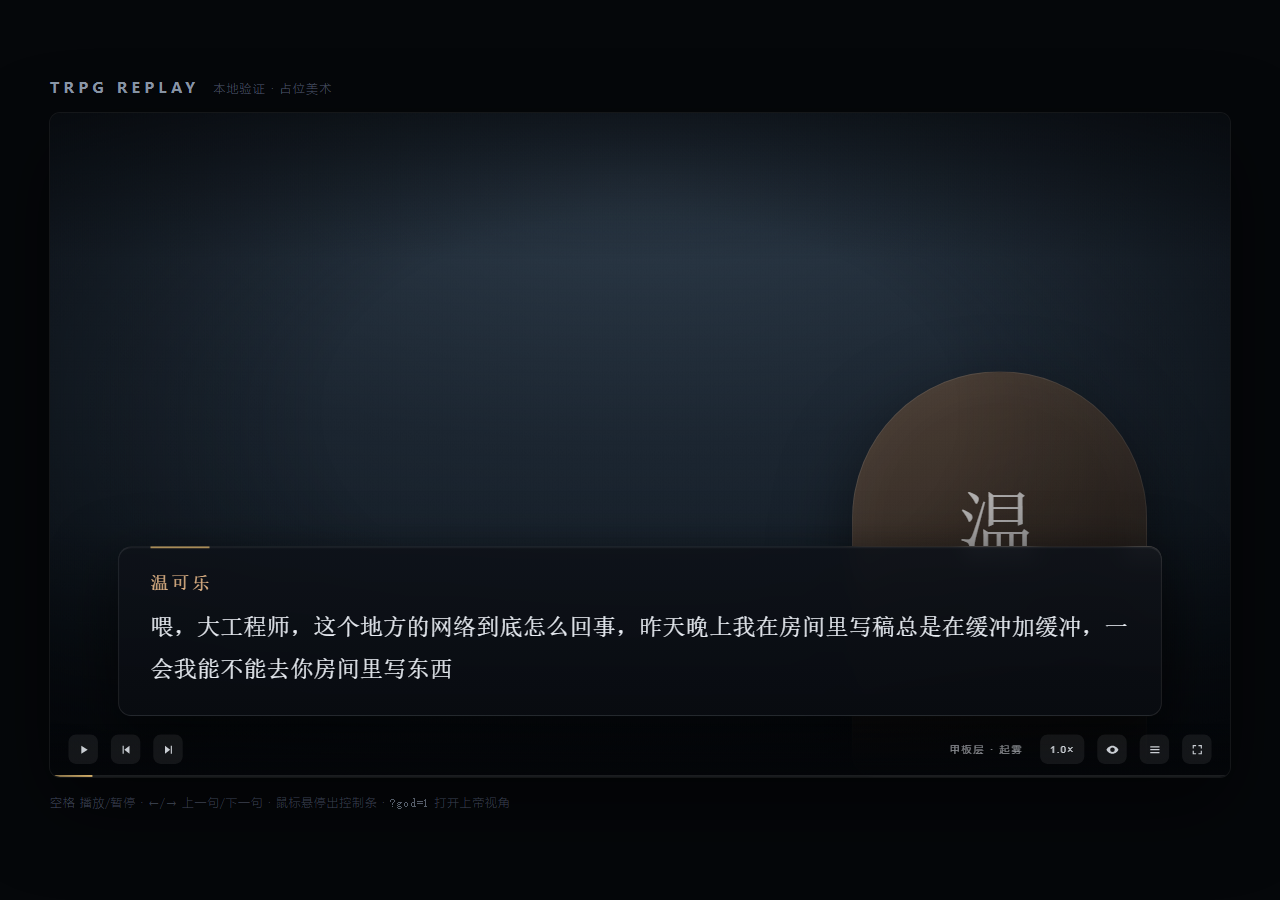
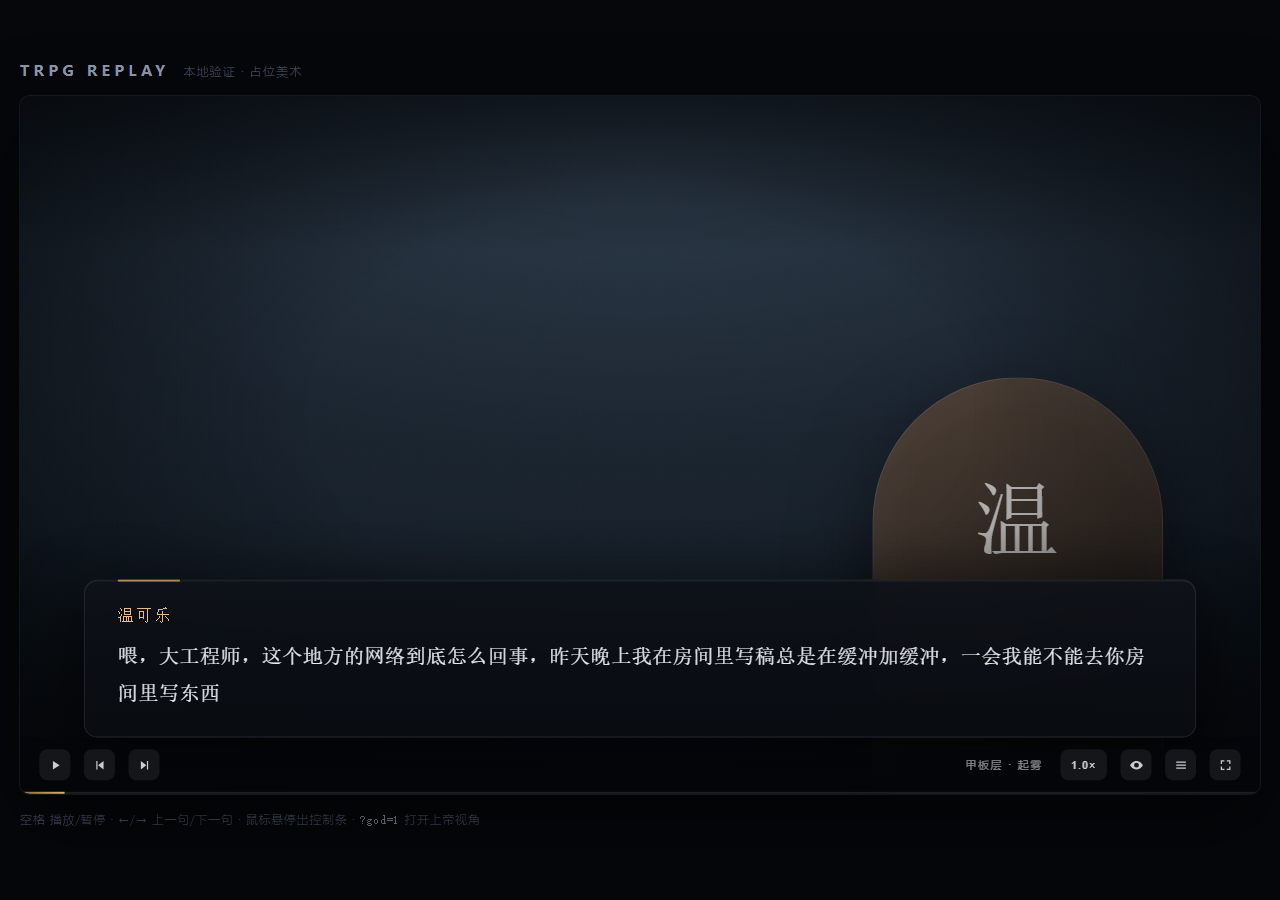
fix(player): 缩小字号、放大舞台、修复蒙太奇段落丢失首句
1) 字号整体下调约 16%（旁白 29->24、对白 25->21、行动 23->20），
   舞台可显示宽度上限 1180 -> 1600，避免'字大播放器小'。
2) 蒙太奇旁白（seq 230）此前只渲染了四行地点分段，把前面
   '最后一颗螺丝拧紧…' 整段丢了。解析器新增 lead 字段，播放器按
   '引导句 + 地点分行' 全量渲染，并改为先排版后逐行点亮。
3) 占位立绘去掉被对话框裁掉的名字行，只留首字。

diff --git a/src/style.ts b/src/style.ts
@@ -97,9 +97,9 @@ export const STYLE = /* css */ `
 .char img { max-height: 100%; max-width: 100%; object-fit: contain; }
 
 .char .ph {
-  width: 320px;
-  height: 440px;
-  padding-top: 96px;
+  width: 300px;
+  height: 430px;
+  padding-top: 74px;
   border-radius: 160px 160px 24px 24px;
   display: flex;
   flex-direction: column;
@@ -117,7 +117,7 @@ export const STYLE = /* css */ `
   color: rgba(255,255,255,.86);
   letter-spacing: 2px;
 }
-.char .ph span { font-size: 13px; color: rgba(255,255,255,.42); letter-spacing: .28em; }
+.char .ph span { display: none; }
 
 /* ---------------------------------------------------------------- HUD */
 .hud {
@@ -179,12 +179,12 @@ export const STYLE = /* css */ `
 .narration {
   position: relative;
   align-self: center;
-  max-width: 880px;
-  margin-bottom: 168px;
+  max-width: 920px;
+  margin-bottom: 150px;
   padding: 0 40px;
   font-family: var(--serif);
-  font-size: 29px;
-  line-height: 1.95;
+  font-size: 24px;
+  line-height: 1.9;
   color: var(--ink);
   text-align: center;
   white-space: pre-wrap;
@@ -192,7 +192,14 @@ export const STYLE = /* css */ `
   letter-spacing: .02em;
   animation: fade 520ms ease both;
 }
-.narration .seg { display: block; margin: 4px 0; }
+.narration .seg {
+  display: block;
+  margin: 4px 0;
+  opacity: 0;
+  transition: opacity 220ms ease;
+}
+.narration .seg.on { opacity: 1; }
+.narration .seg.lead { color: #dfe6f0; }
 .narration .seg i {
   font-style: normal;
   color: var(--accent);
@@ -206,11 +213,11 @@ export const STYLE = /* css */ `
 .action {
   position: relative;
   align-self: center;
-  max-width: 820px;
-  margin-bottom: 172px;
+  max-width: 860px;
+  margin-bottom: 156px;
   padding: 0 40px;
   font-family: var(--serif);
-  font-size: 23px;
+  font-size: 20px;
   line-height: 1.85;
   color: #c3cddb;
   text-align: center;
@@ -223,7 +230,7 @@ export const STYLE = /* css */ `
 /* 对话 / 心声 */
 .bubble {
   position: relative;
-  margin: 0 74px 66px;
+  margin: 0 66px 58px;
   padding: 22px 34px 26px;
   border-radius: 14px;
   background: linear-gradient(180deg, rgba(14,18,25,.90), rgba(9,12,17,.95));
@@ -245,7 +252,7 @@ export const STYLE = /* css */ `
   align-items: baseline;
   gap: 10px;
   font-family: var(--serif);
-  font-size: 20px;
+  font-size: 17px;
   letter-spacing: .12em;
   margin-bottom: 10px;
 }
@@ -259,8 +266,8 @@ export const STYLE = /* css */ `
 .bubble-text {
   position: relative;
   font-family: var(--serif);
-  font-size: 25px;
-  line-height: 1.85;
+  font-size: 21px;
+  line-height: 1.8;
   color: var(--ink);
   letter-spacing: .01em;
   white-space: pre-wrap;
@@ -343,7 +350,7 @@ export const STYLE = /* css */ `
 }
 .check-skill {
   font-family: var(--serif);
-  font-size: 22px;
+  font-size: 19px;
   letter-spacing: .16em;
   color: var(--ink);
   margin-bottom: 4px;
@@ -351,7 +358,7 @@ export const STYLE = /* css */ `
 .check-target { font-size: 12px; color: rgba(232,236,242,.42); letter-spacing: .2em; margin-bottom: 14px; }
 .check-dice {
   font-family: "Inter", var(--sans);
-  font-size: 76px;
+  font-size: 62px;
   font-weight: 200;
   line-height: 1;
   font-variant-numeric: tabular-nums;
@@ -411,7 +418,7 @@ export const STYLE = /* css */ `
 }
 .scene-label {
   font-family: var(--serif);
-  font-size: 40px;
+  font-size: 34px;
   letter-spacing: .16em;
   color: var(--ink);
 }

diff --git a/src/player.ts b/src/player.ts
@@ -303,16 +303,28 @@ export class Player {
     this.bodyEl.replaceChildren(node)
 
     if (ev.segments?.length) {
+      // 蒙太奇段落：所有行先排好（透明），再逐行点亮，避免底部对齐的段落往上顶
+      const lines: HTMLElement[] = []
+      if (ev.lead) {
+        const lead = el('span', 'seg lead')
+        lead.textContent = ev.lead
+        node.append(lead)
+        lines.push(lead)
+      }
       for (const seg of ev.segments) {
         const line = el('span', 'seg')
         const tag = el('i', '')
         tag.textContent = seg.where
         line.append(tag, document.createTextNode(seg.what))
         node.append(line)
-        if (!this.alive(g)) return
-        await this.sleep(260 / this.speed, g)
+        lines.push(line)
       }
-      await this.sleep(ev.ms * 0.5 / this.speed, g)
+      for (const line of lines) {
+        if (!this.alive(g)) return
+        line.classList.add('on')
+        await this.sleep(320 / this.speed, g)
+      }
+      await this.sleep(ev.ms * 0.45 / this.speed, g)
       return
     }
 

diff --git a/demo/index.html b/demo/index.html
@@ -15,9 +15,9 @@
         font: 14px/1.6 "Inter", "PingFang SC", "Microsoft YaHei", system-ui, sans-serif;
         display: grid;
         place-items: center;
-        padding: 40px 24px;
+        padding: 24px 20px;
       }
-      .wrap { width: min(1180px, 100%); }
+      .wrap { width: min(1600px, 100%); }
       .head { display: flex; align-items: baseline; gap: 14px; margin-bottom: 14px; }
       .head h1 { font-size: 15px; font-weight: 500; letter-spacing: .28em; margin: 0; color: #8d9aab; }
       .head .hint { font-size: 12px; color: #4d5666; letter-spacing: .1em; }

diff --git a/src/types.ts b/src/types.ts
@@ -48,6 +48,8 @@ export interface ReplayEvent {
   channel?: string
   subtype?: string
   segments?: Array<{ where: string; what: string }>
+  /** 蒙太奇段落前的引导句（不属于任何地点分行的那部分）。 */
+  lead?: string
   check?: CheckData
   visibleToPlayers?: boolean
   note?: string

diff --git a/tools/build_replay.py b/tools/build_replay.py
@@ -170,10 +170,18 @@ def parse_body(raw: str, rtype: str) -> dict:
         meta["channel"] = "radio"
 
     # 蒙太奇：一段旁白里并列多个地点（seq 230 那种）
-    segs = [m.groupdict() for line in text.split("\n") if (m := RE_MONTAGE.match(line.strip()))]
+    lines = text.split("\n")
+    segs = [m.groupdict() for line in lines if (m := RE_MONTAGE.match(line.strip()))]
     if len(segs) >= 2:
         meta["subtype"] = "montage"
         meta["segments"] = [{"where": g["where"], "what": g["what"]} for g in segs]
+        # 第一段地点分行之前的正文不属于任何地点，单独保留，别丢掉
+        first = next(
+            i for i, line in enumerate(lines) if RE_MONTAGE.match(line.strip())
+        )
+        lead = "\n".join(lines[:first]).strip()
+        if lead:
+            meta["lead"] = lead
 
     return {"text": text, **meta}
 
